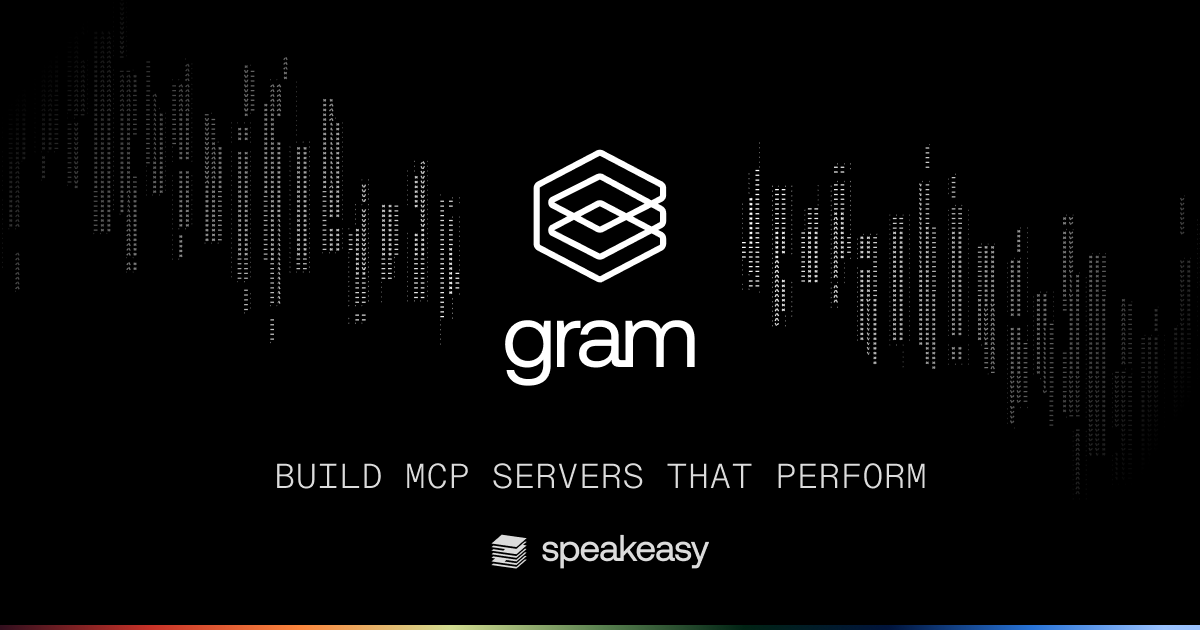
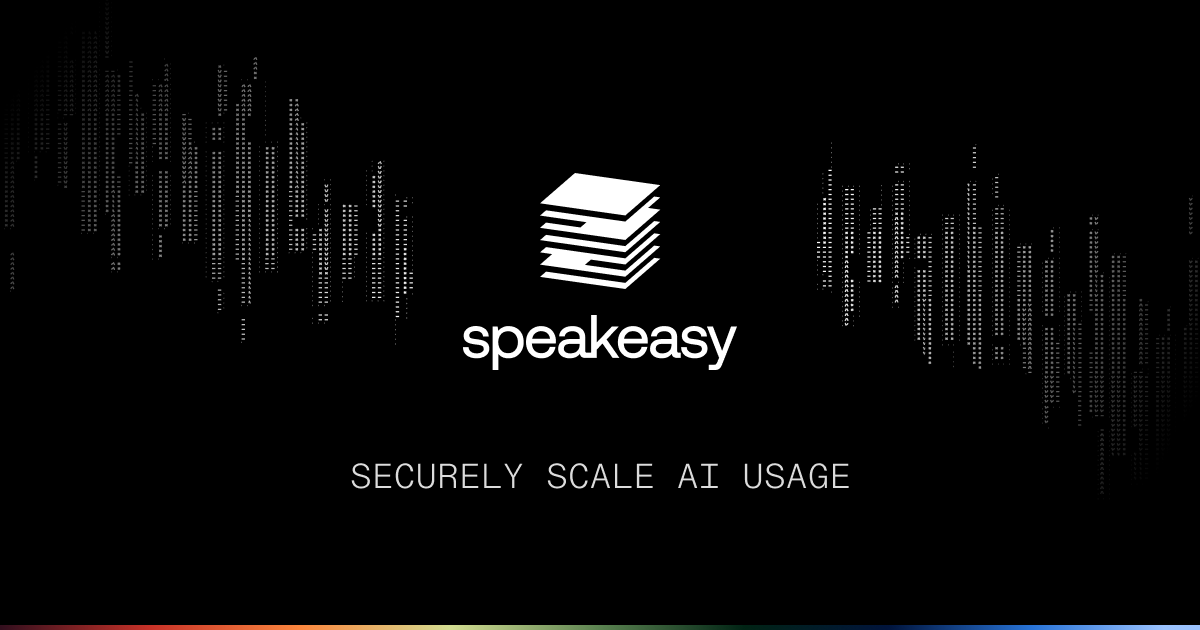
fix: update social share image and OG meta tags (#2040)
## Summary
- Updated the OG image (`og-image.png`) with new branding asset
- Changed `og:title` from "Gram by Speakeasy" to "Speakeasy MCP
Platform"
- Changed `og:description` to "A unified platform to connect, secure and
observe AI usage across your organization."

## Test plan
- [ ] Deploy to preview/staging and paste a link in Slack to verify the
new unfurl
- [ ] Check that the image renders correctly in Twitter Card Validator

🤖 Generated with [Claude Code](https://claude.com/claude-code)

---------

diff --git a/client/dashboard/index.html b/client/dashboard/index.html
@@ -5,10 +5,10 @@
     <link rel="icon" id="favicon" href="/favicon.png" />
     <link rel="alternate icon" id="favicon-alt" href="/favicon.ico" />
 
-    <meta property="og:title" content="Gram by Speakeasy" />
+    <meta property="og:title" content="Speakeasy MCP Platform" />
     <meta
       property="og:description"
-      content="Securely connect your production data to AI and build apps. Powered by MCP."
+      content="A control plane to connect, secure and scale AI usage across your organization."
     />
     <meta property="og:image" content="https://app.getgram.ai/og-image.png" />
     <meta property="og:url" content="https://app.getgram.ai" />
